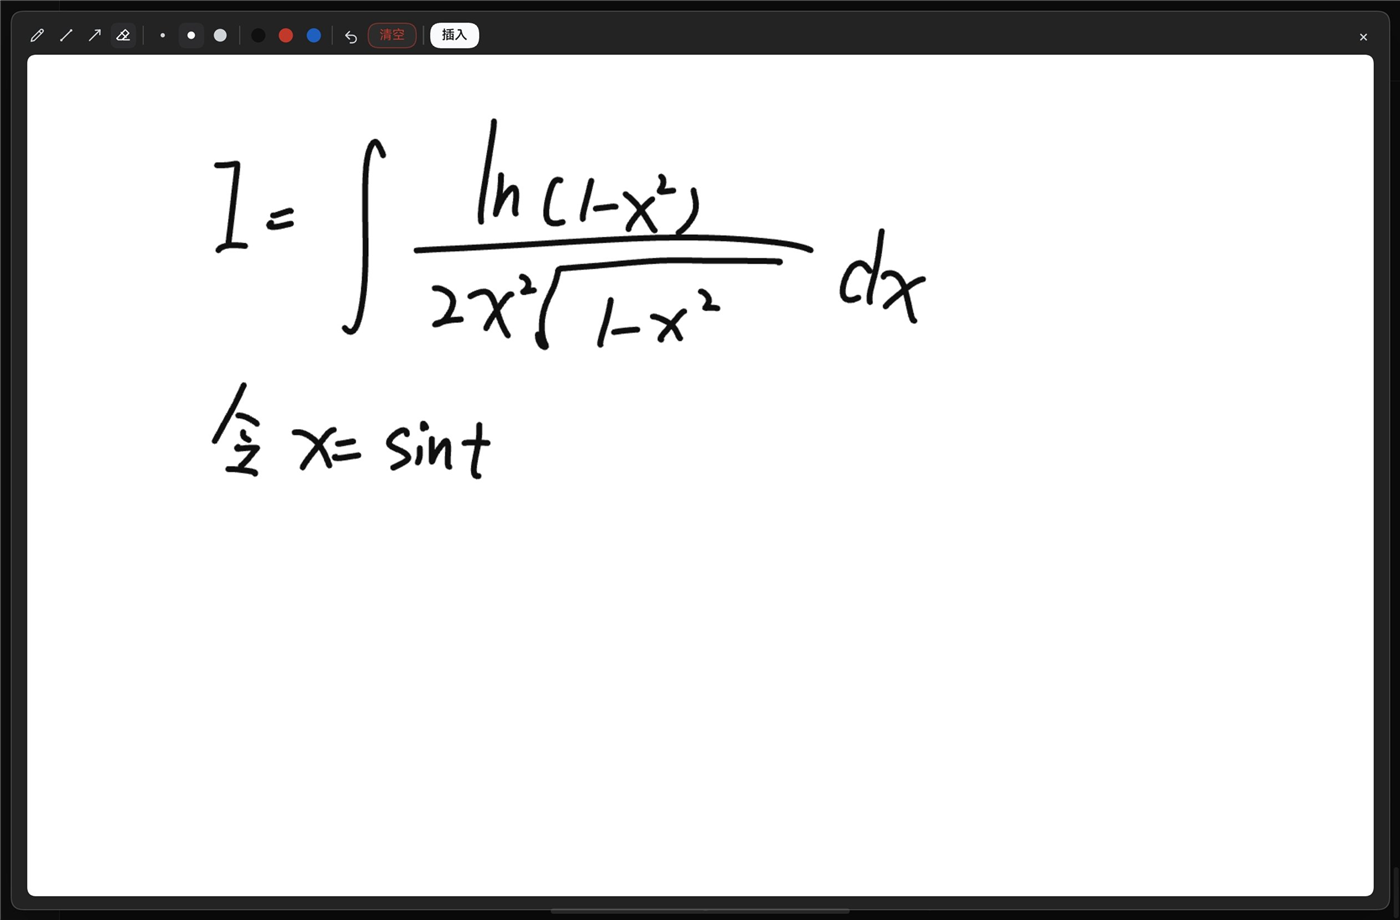
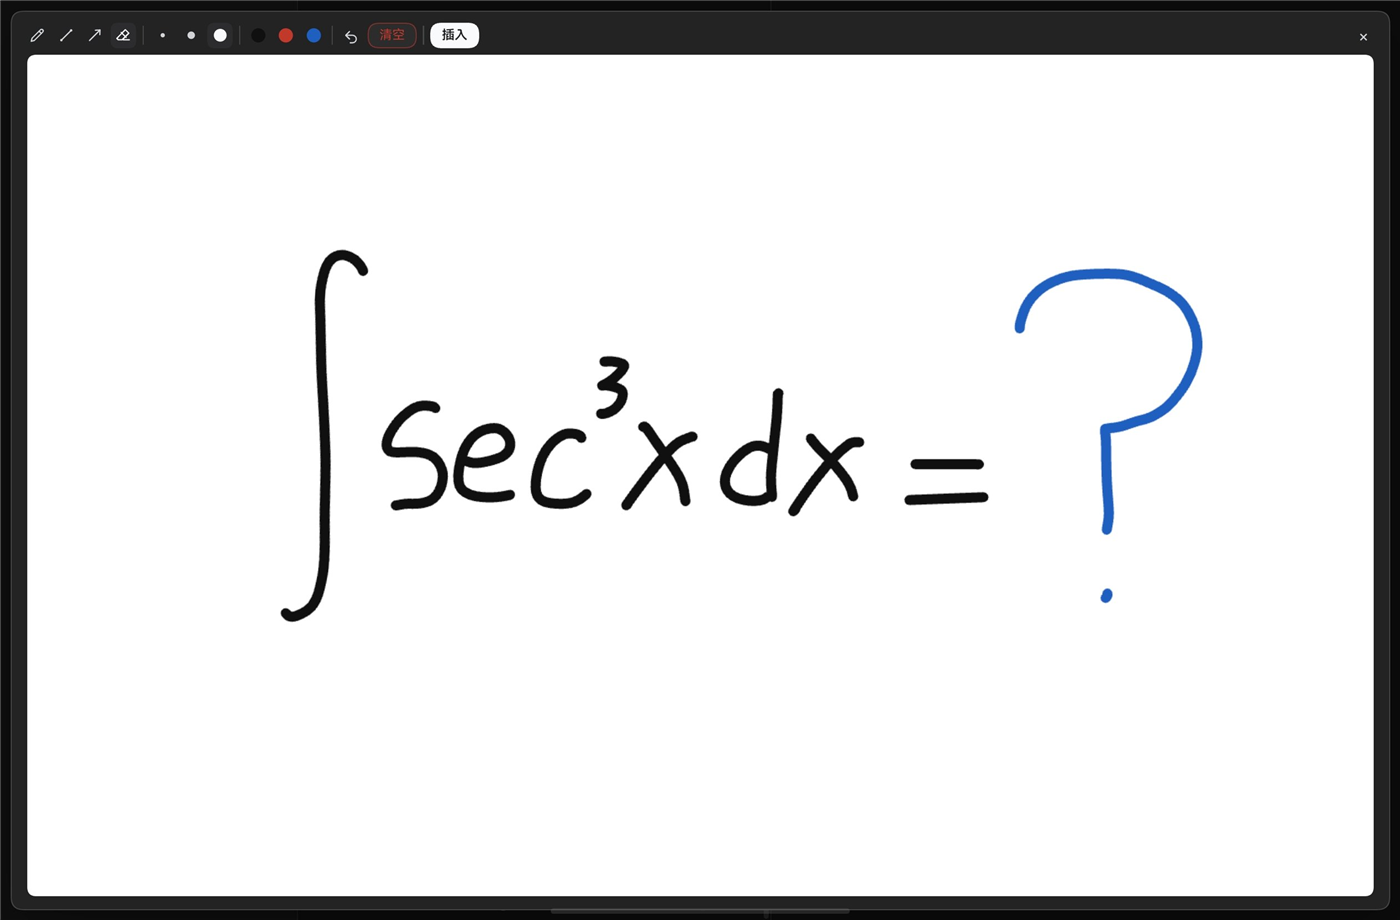
docs: refresh screenshots

diff --git a/README.md b/README.md
@@ -35,7 +35,7 @@ Restart `dsh web` (or refresh after a live install).
 
 Floating **Insert** freezes the drawing, clears the board and closes the window. The sidebar's **Insert to composer** keeps the tab open for the next one.
 
-<img src="docs/images/sidebar.png" alt="The sidebar board with a hand-drawn graph" width="380">
+<img src="docs/images/sidebar.png" alt="The sidebar board with a hand-drawn directed graph" width="380">
 
 <img src="docs/images/attachment.png" alt="A sketch attached to the composer" width="100%">
 

diff --git a/README.zh.md b/README.zh.md
@@ -35,7 +35,7 @@ dsh plugin --profile web add dsh-sketchpad
 
 浮窗的 **插入** 会冻结画面、清空画板并关闭窗口；侧栏的 **插入到输入框** 保留标签页，方便接着画下一张。
 
-<img src="docs/images/sidebar.png" alt="侧栏画板：手画的 x1 到 x5 关系图" width="380">
+<img src="docs/images/sidebar.png" alt="侧栏画板：手画的有向图" width="380">
 
 <img src="docs/images/attachment.png" alt="输入框里的画板图片附件" width="100%">
 
